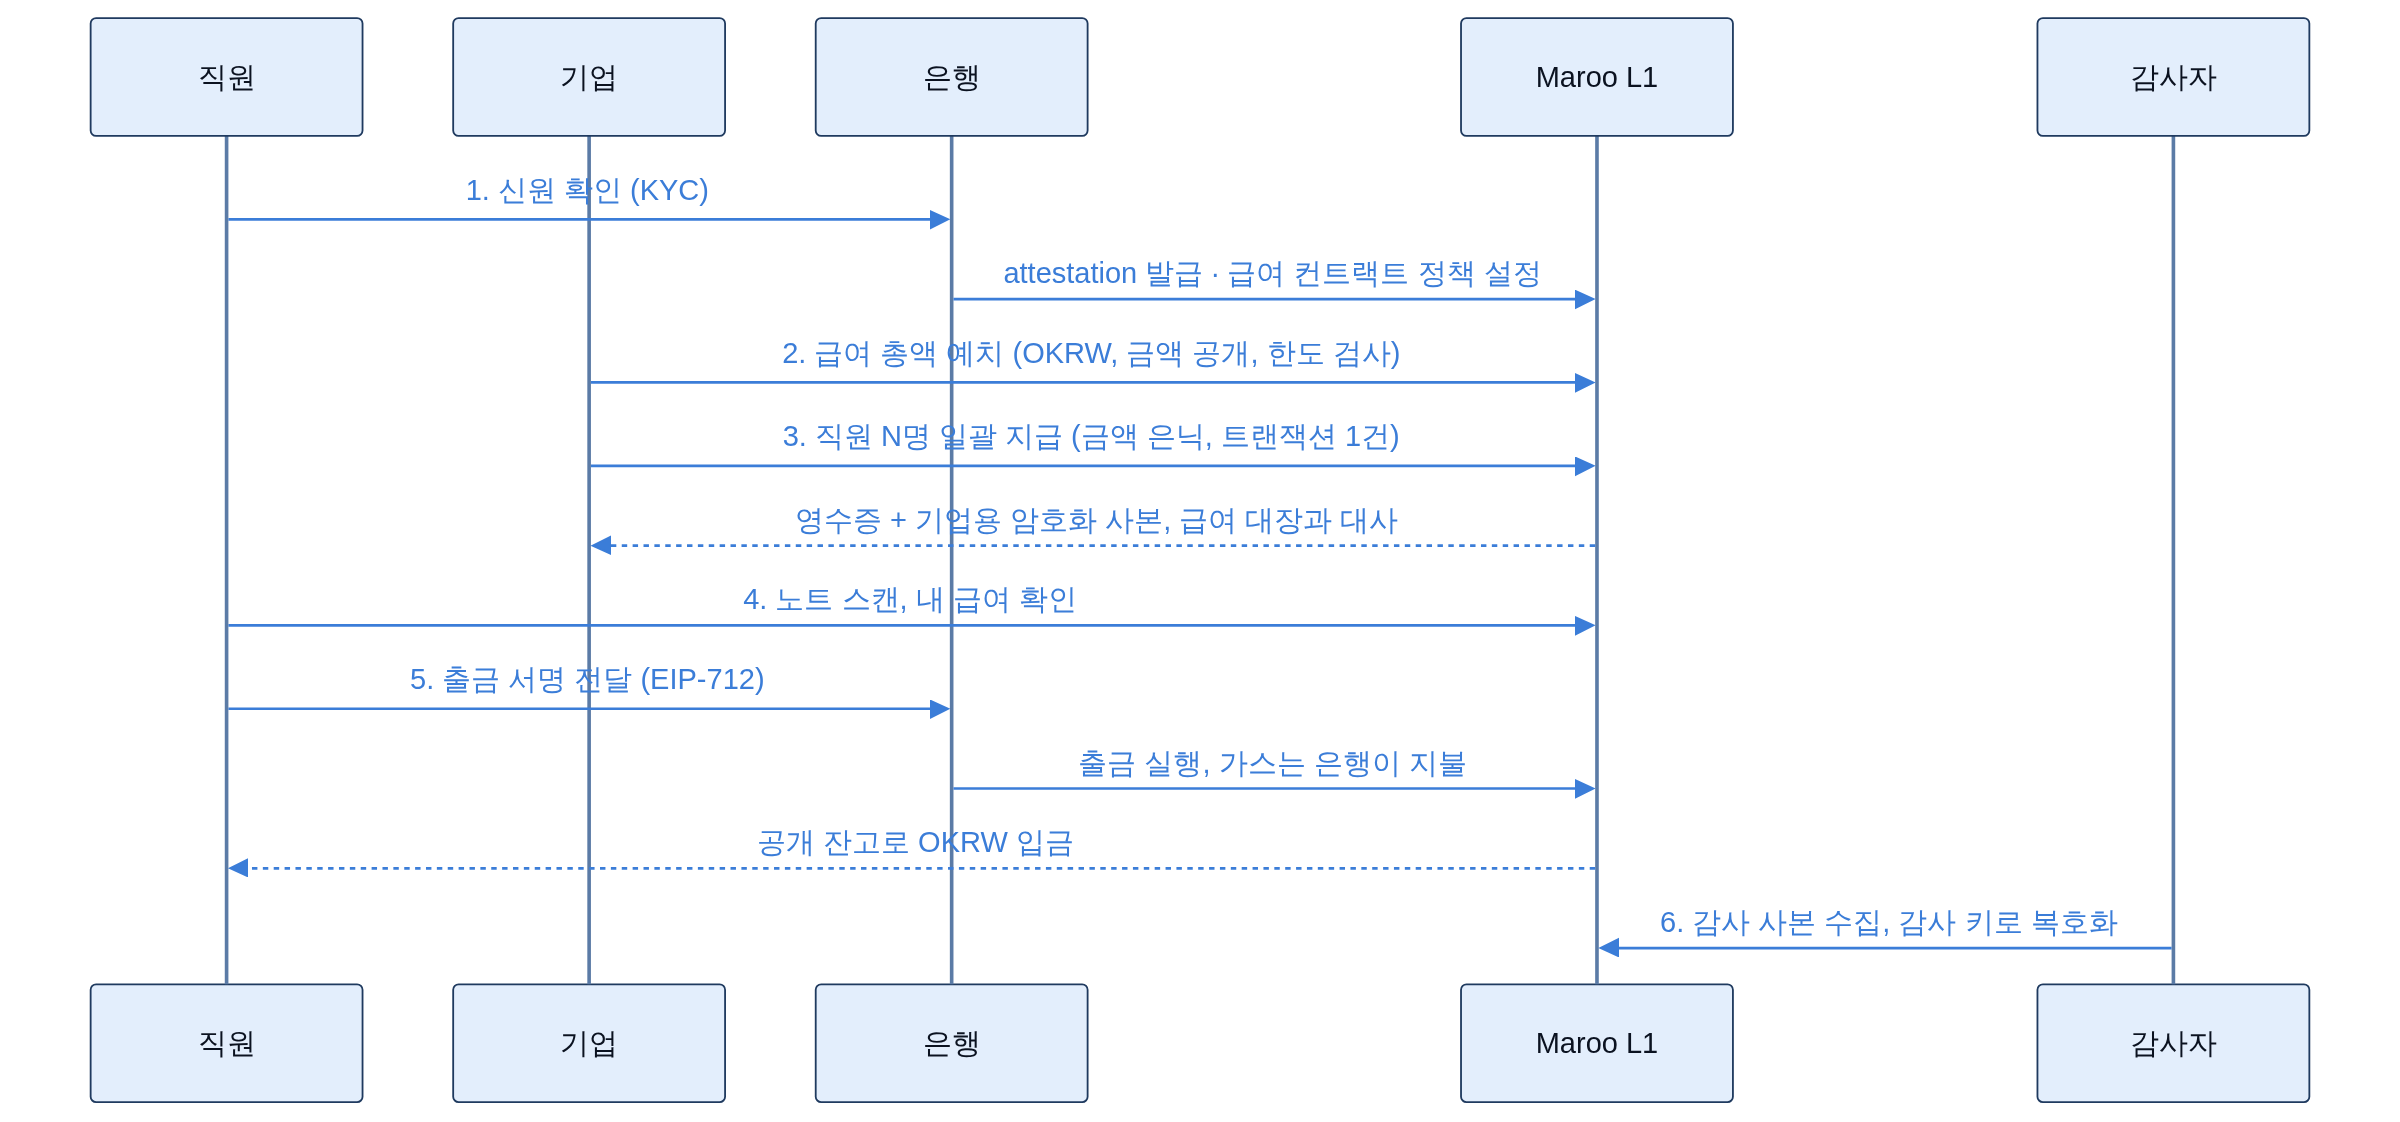
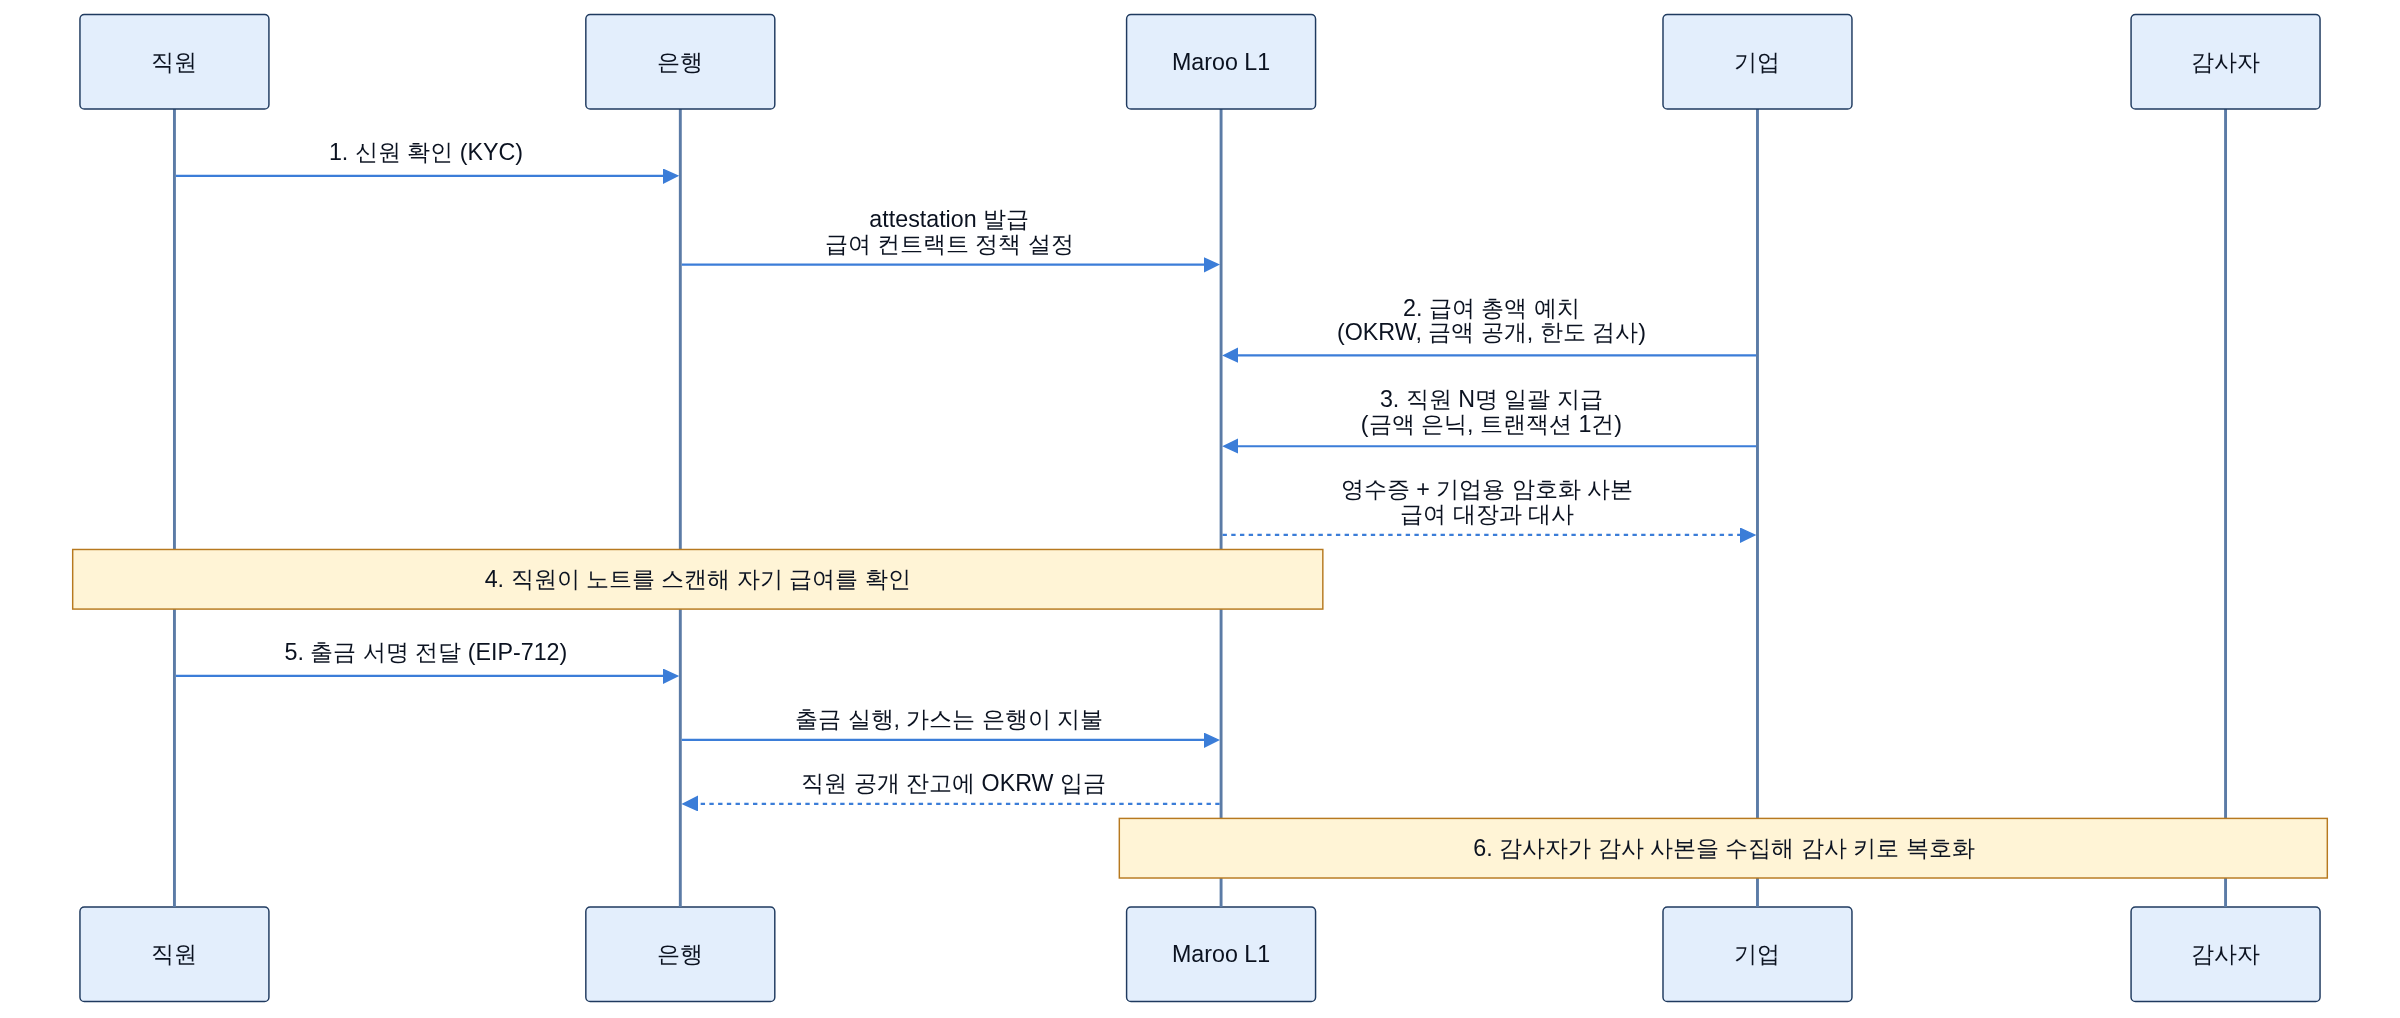
급여 시퀀스 다이어그램 참여자 순서 재배치, 라벨과 생명선 겹침 제거

diff --git a/docs/diagrams/payroll-overview.md b/docs/diagrams/payroll-overview.md
@@ -1,20 +1,20 @@
 ```mermaid
-%%{init: {'theme': 'base', 'themeVariables': {'fontSize': '16px', 'primaryColor': '#ffffff', 'primaryTextColor': '#0b1220', 'primaryBorderColor': '#1f3a5f', 'secondaryColor': '#e3eefc', 'tertiaryColor': '#fff4d6', 'lineColor': '#3b7dd8', 'textColor': '#0b1220', 'edgeLabelBackground': '#ffffff', 'clusterBkg': '#eef3fa', 'clusterBorder': '#5b7ba6', 'titleColor': '#0b1220', 'actorBkg': '#e3eefc', 'actorBorder': '#1f3a5f', 'actorTextColor': '#0b1220', 'actorLineColor': '#5b7ba6', 'signalColor': '#3b7dd8', 'signalTextColor': '#3b7dd8', 'noteBkgColor': '#fff4d6', 'noteBorderColor': '#b7791f', 'noteTextColor': '#0b1220', 'labelBoxBkgColor': '#e3eefc', 'labelBoxBorderColor': '#1f3a5f', 'labelTextColor': '#0b1220', 'loopTextColor': '#0b1220', 'sequenceNumberColor': '#ffffff', 'activationBkgColor': '#fff4d6'}}}%%
+%%{init: {'theme': 'base', 'themeVariables': {'fontSize': '16px', 'primaryColor': '#ffffff', 'primaryTextColor': '#0b1220', 'primaryBorderColor': '#1f3a5f', 'lineColor': '#3b7dd8', 'textColor': '#0b1220', 'actorBkg': '#e3eefc', 'actorBorder': '#1f3a5f', 'actorTextColor': '#0b1220', 'actorLineColor': '#5b7ba6', 'signalColor': '#3b7dd8', 'signalTextColor': '#0b1220', 'noteBkgColor': '#fff4d6', 'noteBorderColor': '#b7791f', 'noteTextColor': '#0b1220', 'sequenceNumberColor': '#ffffff'}, 'sequence': {'actorMargin': 140, 'width': 130, 'messageMargin': 40, 'noteMargin': 12}}}%%
 sequenceDiagram
   participant EMP as 직원
-  participant CORP as 기업
   participant BANK as 은행
   participant CHAIN as Maroo L1
+  participant CORP as 기업
   participant AUD as 감사자
 
   EMP->>BANK: 1. 신원 확인 (KYC)
-  BANK->>CHAIN: attestation 발급 · 급여 컨트랙트 정책 설정
-  CORP->>CHAIN: 2. 급여 총액 예치 (OKRW, 금액 공개, 한도 검사)
-  CORP->>CHAIN: 3. 직원 N명 일괄 지급 (금액 은닉, 트랜잭션 1건)
-  CHAIN-->>CORP: 영수증 + 기업용 암호화 사본, 급여 대장과 대사
-  EMP->>CHAIN: 4. 노트 스캔, 내 급여 확인
+  BANK->>CHAIN: attestation 발급<br/>급여 컨트랙트 정책 설정
+  CORP->>CHAIN: 2. 급여 총액 예치<br/>(OKRW, 금액 공개, 한도 검사)
+  CORP->>CHAIN: 3. 직원 N명 일괄 지급<br/>(금액 은닉, 트랜잭션 1건)
+  CHAIN-->>CORP: 영수증 + 기업용 암호화 사본<br/>급여 대장과 대사
+  Note over EMP,CHAIN: 4. 직원이 노트를 스캔해 자기 급여를 확인
   EMP->>BANK: 5. 출금 서명 전달 (EIP-712)
   BANK->>CHAIN: 출금 실행, 가스는 은행이 지불
-  CHAIN-->>EMP: 공개 잔고로 OKRW 입금
-  AUD->>CHAIN: 6. 감사 사본 수집, 감사 키로 복호화
+  CHAIN-->>BANK: 직원 공개 잔고에 OKRW 입금
+  Note over CHAIN,AUD: 6. 감사자가 감사 사본을 수집해 감사 키로 복호화
 ```

diff --git a/docs/integration-guide.md b/docs/integration-guide.md
@@ -119,24 +119,24 @@ flowchart TB
 급여 지급 과정은 여섯 단계다. 직원 신원 확인, 기업의 자금 예치, 비공개 일괄 지급, 직원의 수령 확인, 출금, 감사 순서다. 배당이나 정산 지급도 수취인 목록과 재원의 출처만 다를 뿐 이 여섯 단계가 같다.
 
 ```mermaid
-%%{init: {'theme': 'dark'}}%%
+%%{init: {'theme': 'dark', 'sequence': {'actorMargin': 140, 'width': 130, 'messageMargin': 40, 'noteMargin': 12}}}%%
 sequenceDiagram
   participant EMP as 직원
-  participant CORP as 기업
   participant BANK as 은행
   participant CHAIN as Maroo L1
+  participant CORP as 기업
   participant AUD as 감사자
 
   EMP->>BANK: 1. 신원 확인 (KYC)
-  BANK->>CHAIN: attestation 발급 · 급여 컨트랙트 정책 설정
-  CORP->>CHAIN: 2. 급여 총액 예치 (OKRW, 금액 공개, 한도 검사)
-  CORP->>CHAIN: 3. 직원 N명 일괄 지급 (금액 은닉, 트랜잭션 1건)
-  CHAIN-->>CORP: 영수증 + 기업용 암호화 사본, 급여 대장과 대사
-  EMP->>CHAIN: 4. 노트 스캔, 내 급여 확인
+  BANK->>CHAIN: attestation 발급<br/>급여 컨트랙트 정책 설정
+  CORP->>CHAIN: 2. 급여 총액 예치<br/>(OKRW, 금액 공개, 한도 검사)
+  CORP->>CHAIN: 3. 직원 N명 일괄 지급<br/>(금액 은닉, 트랜잭션 1건)
+  CHAIN-->>CORP: 영수증 + 기업용 암호화 사본<br/>급여 대장과 대사
+  Note over EMP,CHAIN: 4. 직원이 노트를 스캔해 자기 급여를 확인
   EMP->>BANK: 5. 출금 서명 전달 (EIP-712)
   BANK->>CHAIN: 출금 실행, 가스는 은행이 지불
-  CHAIN-->>EMP: 공개 잔고로 OKRW 입금
-  AUD->>CHAIN: 6. 감사 사본 수집, 감사 키로 복호화
+  CHAIN-->>BANK: 직원 공개 잔고에 OKRW 입금
+  Note over CHAIN,AUD: 6. 감사자가 감사 사본을 수집해 감사 키로 복호화
 ```
 
 2, 3, 4, 6단계는 로컬 Clairveil에서 직접 실행했고, 1단계와 5단계는 마루 문서를 근거로 구성한 제안이다. 프리컴파일 단위의 상세 시퀀스는 [docs/diagrams/privacy-sequence.md](diagrams/privacy-sequence.md)에 있다.
